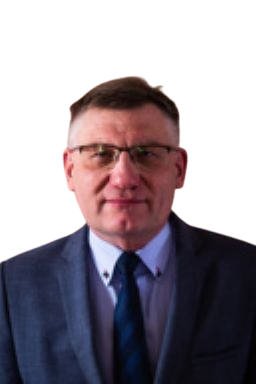
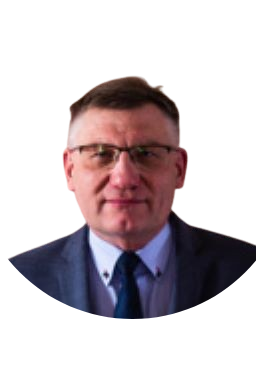
Oprava kontaktni fotografie, smazany zbytecne tridy v blogu

Changed region(s): [[0.0, 0.6562, 1.0, 1.0]]

diff --git a/blog.html b/blog.html
@@ -50,14 +50,14 @@
                     <h2>Jakou korekturu si vyberete?</h2>
                     <br>
 
-                    <p class="perex">
+                    <p>
                         <strong>Základní korektura</strong>
                     </p>
 
                     <p> Je vhodná pro běžné texty, jako jsou e-maily nebo blogy. </p>
                     <p>Pokrývá opravu gramatických chyb, překlepů a&nbsp;nesprávné interpunkce.</p>
                     <br>
-                    <p class="perex">
+                    <p>
                         <strong>Stylistická korektura</strong>
                     </p>
 
@@ -70,7 +70,7 @@
                         a&nbsp;nesprávné pořadí slov ve větě.
                     </p>
                     <br>
-                    <p class="perex">
+                    <p>
                         <strong>Rozšířená korektura</strong>
                     </p>
                     <p>
@@ -86,7 +86,7 @@
                     </p>
                     <br>
 
-                    <p class="perex">
+                    <p>
                         <strong>Předtisková korektura</strong>
                     </p>
                     <p>
@@ -99,7 +99,7 @@
                         rejstříku, obsahu, číslování stránek, atd.</p>
                         
                     <br>
-                    <p class="perex">
+                    <p>
                         <strong>Korektura překladů</strong>
                     </p>
                     <p>
@@ -117,7 +117,7 @@
                     <br>
                     <h2>Jak probíhá komunikace při elektronickém zpracování korektury vašeho textu?</h2>
                     <br>
-                    <p class="perex">
+                    <p>
                         <strong>Co uděláte vy?</strong>
                     </p>
                     <p>Text mi pošlete na e-mail:</p>
@@ -127,7 +127,7 @@
                         fakulty, abych znal požadované formátování textu a&nbsp;citační normu.</p>
                     <p>Uveďte, jaký je termín odevzdání textu.<br></p>
                     <br>
-                    <p class="perex">
+                    <p>
                         <strong>Co udělám já?</strong>
                     </p>
                     <p>Po doručení textu vám pošlu kalkulaci podle počtu normostran v&nbsp;textu a&nbsp;podle druhu
@@ -151,7 +151,7 @@
                     </p>
                     <br>
 
-                    <p class="perex">
+                    <p>
                         <strong>Co uděláte vy?</strong>
                     </p>
                     <p>
@@ -172,7 +172,7 @@
                     </p>
                     <br>
 
-                    <p class="perex">
+                    <p>
                         <strong>Co dalšího můžete předem uvést?</strong>
                     </p>
                     <p>

diff --git a/assets/css/style.css b/assets/css/style.css
@@ -475,11 +475,10 @@ footer img {
     /* width: fit-content; */
     height: 200px;
     width: auto;
-    margin-top: -5svh;
+    margin-top: -4svh;
 
     align-self: flex-start;
-
-    clip-path: ellipse(75px 75px);
+    
     /* background: #303030; */
 }
 
